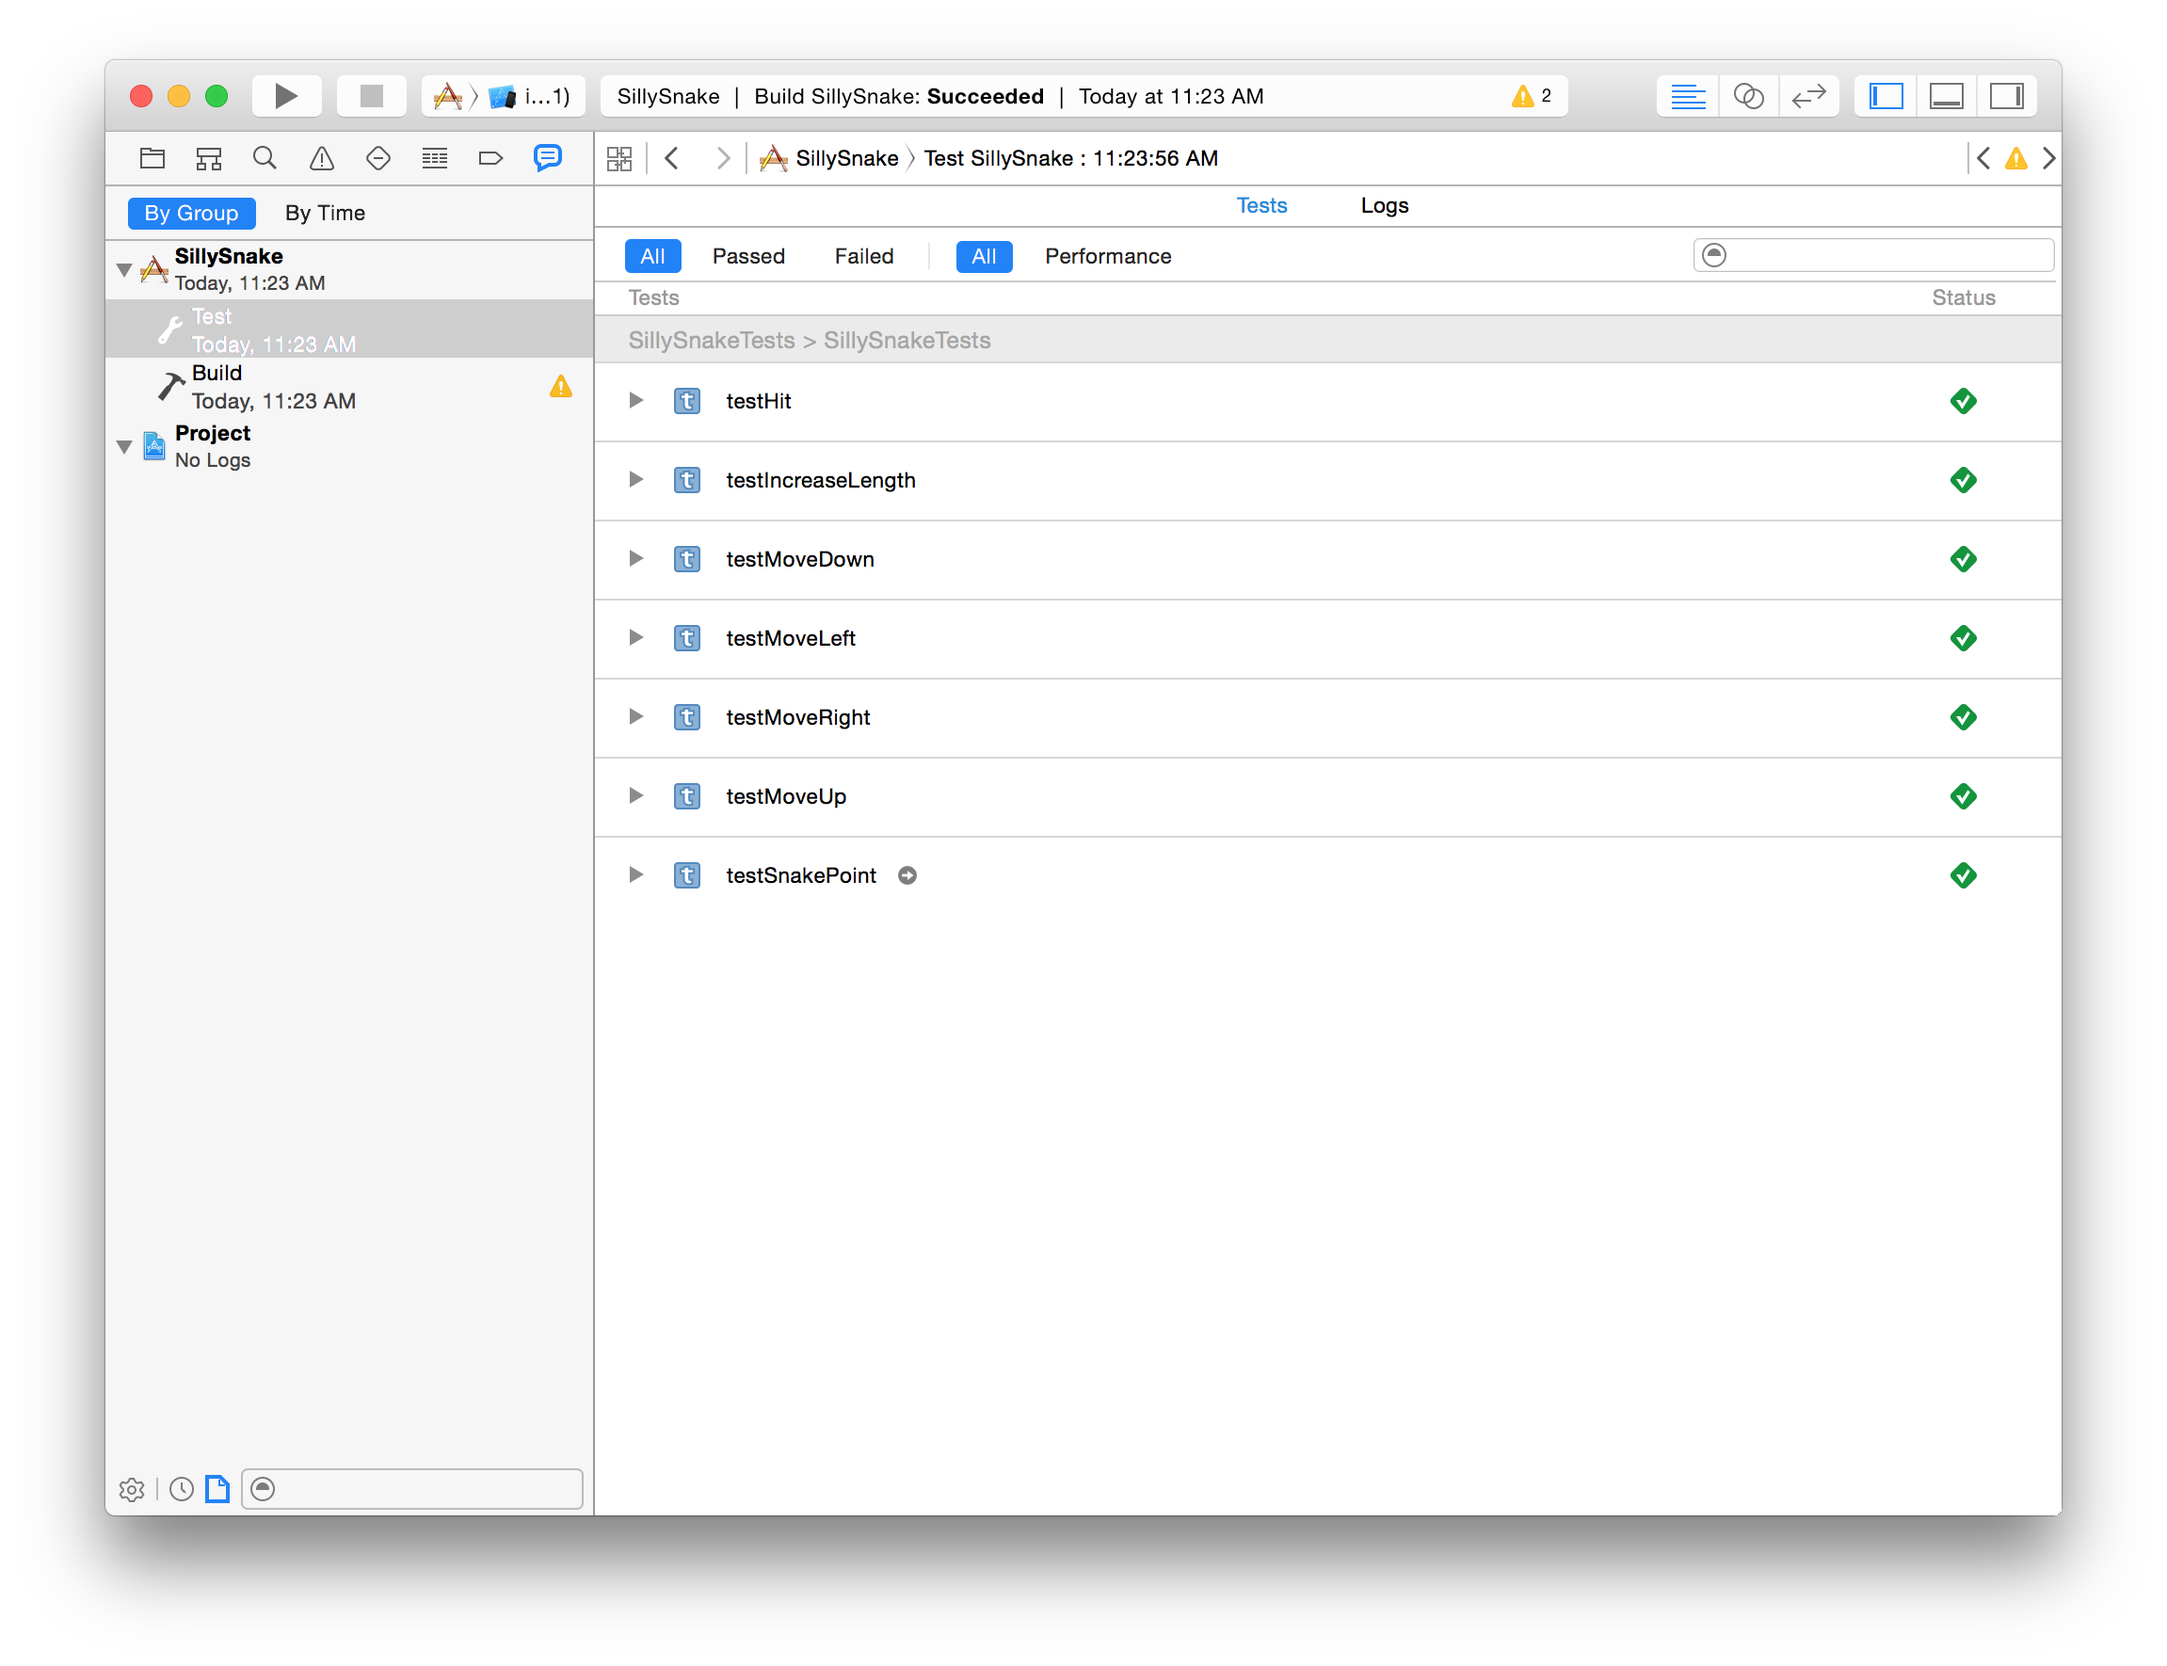
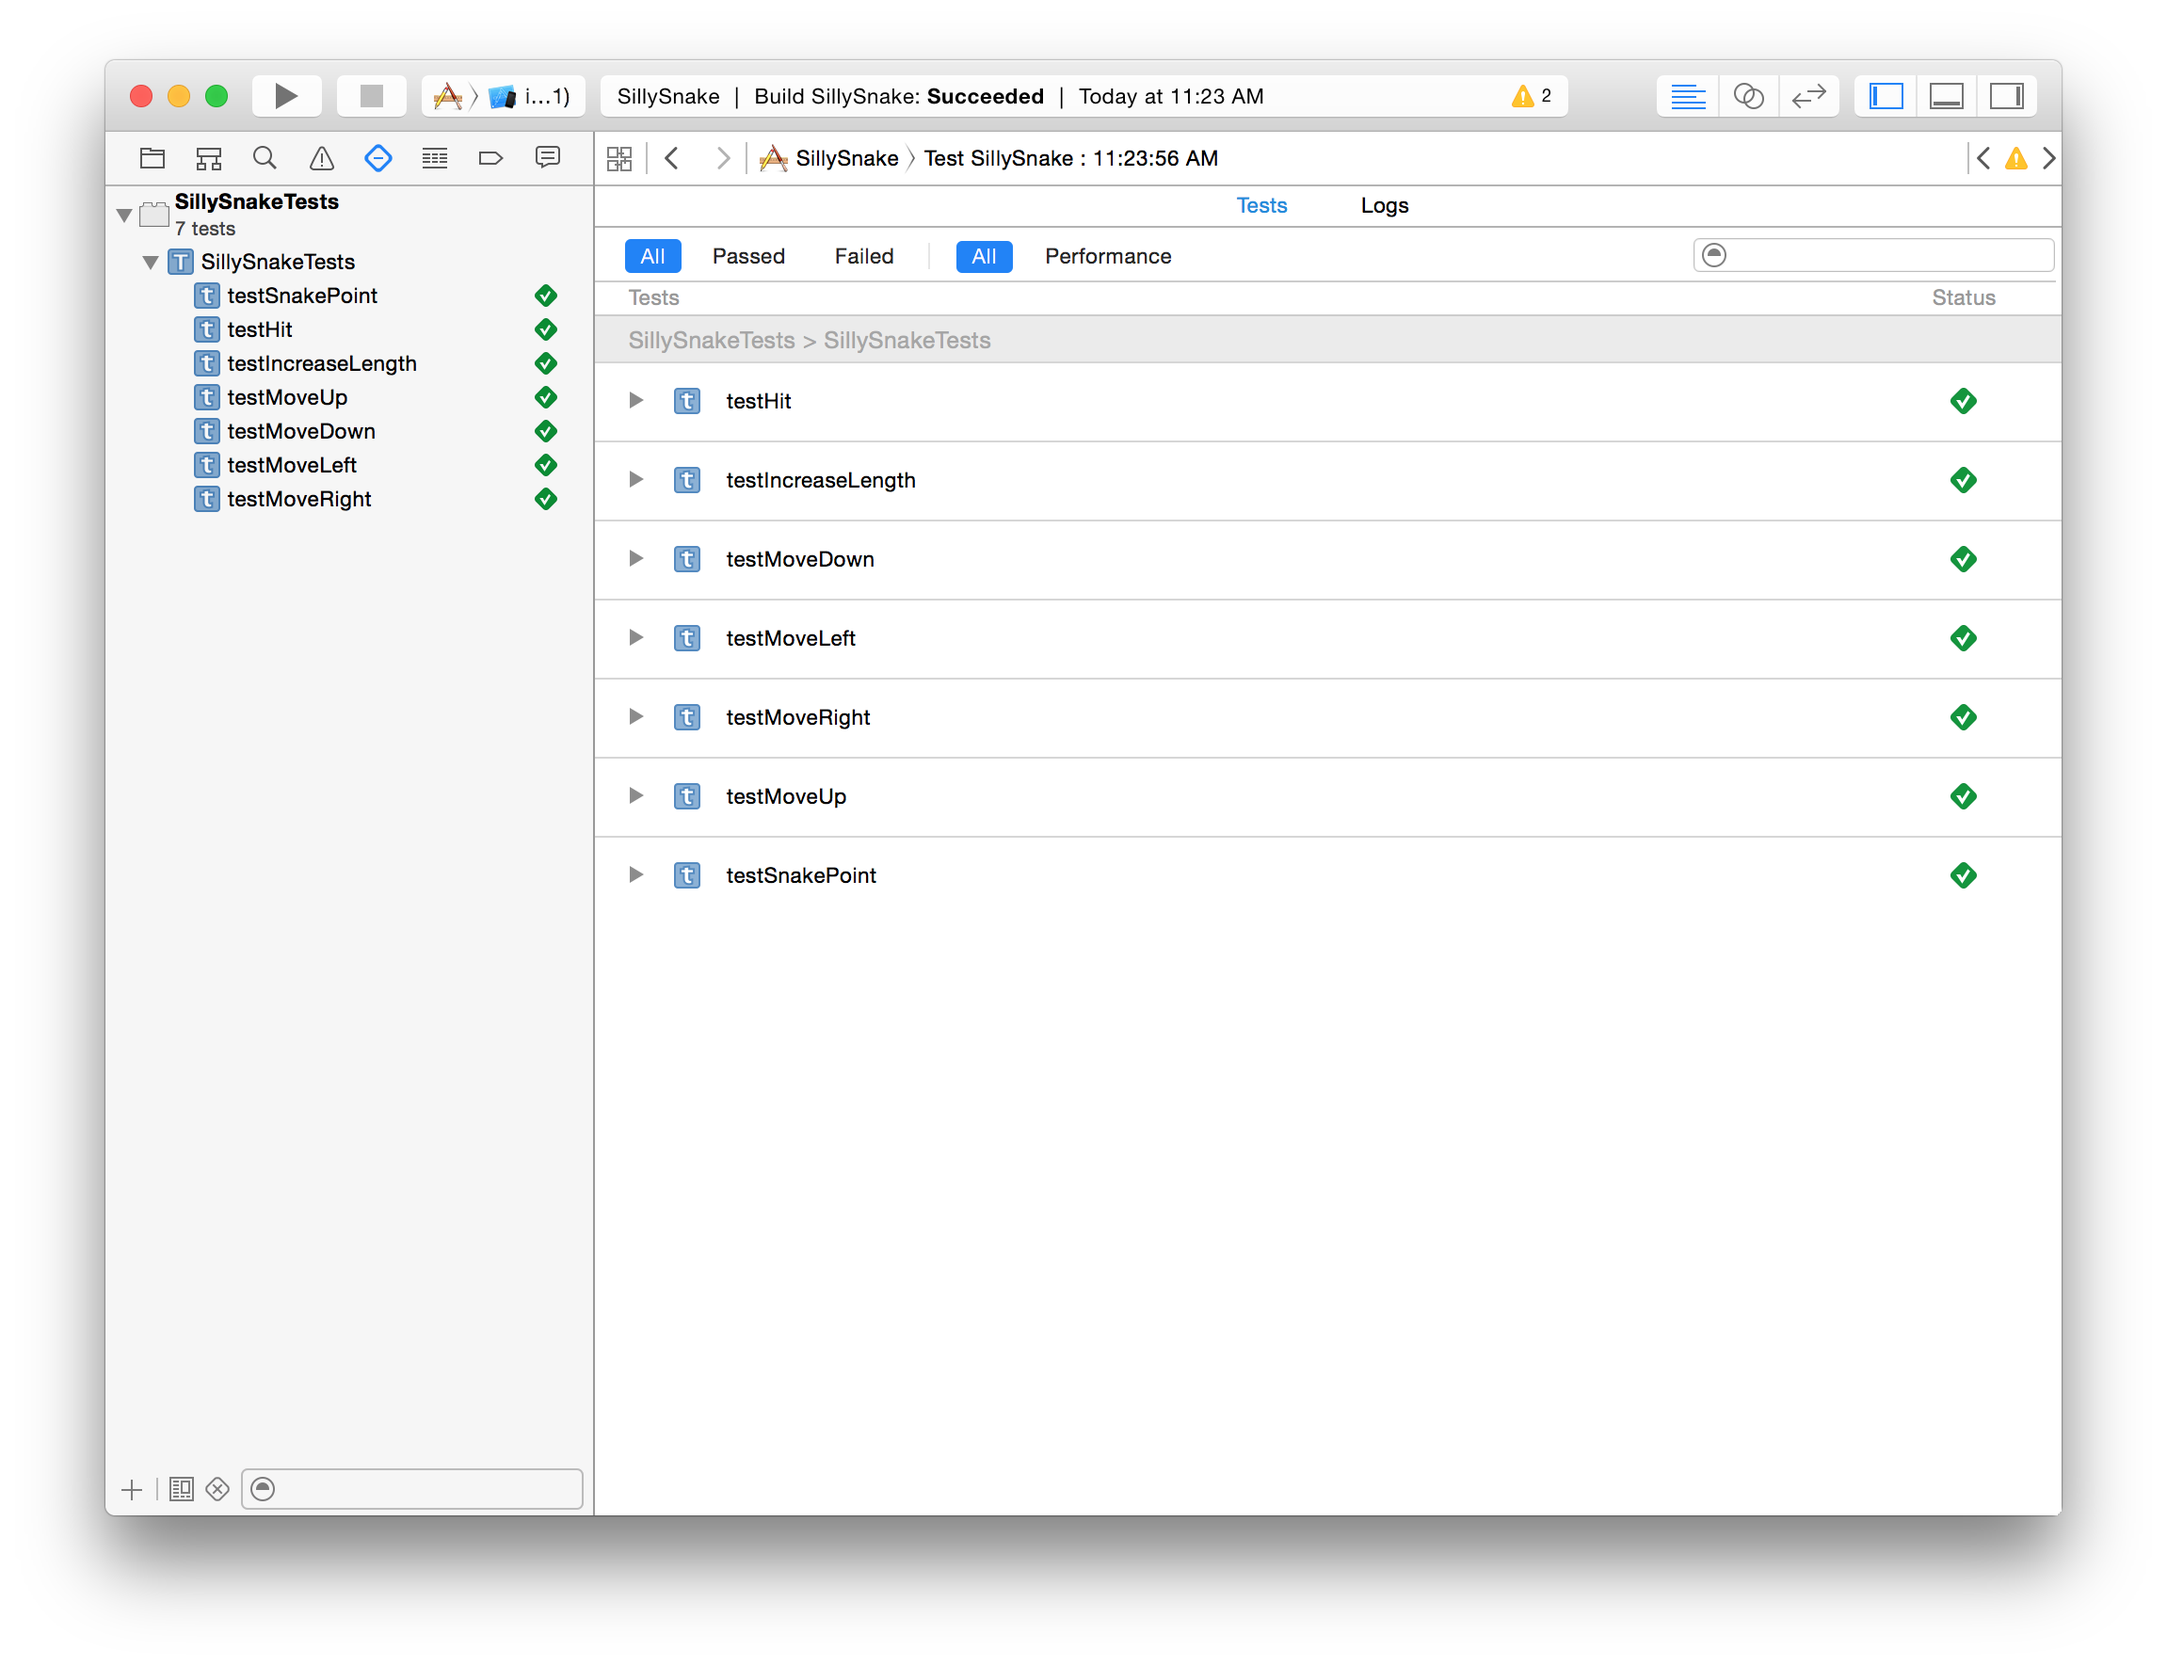
Updates unit_test/run_test.md.

Changed region(s): [[0.0308, 0.0932, 0.2776, 0.3107], [0.0617, 0.8701, 0.1234, 0.9011]]

diff --git a/unit_test/run_test.md b/unit_test/run_test.md
@@ -4,11 +4,25 @@
 寫了測試程式之後，我們可以在 Xcode 裡頭按下 Product->Test 執行單元測試。
 如果XCTAssertEqual 這行 assert 出現問題，Xcode 就會立刻出現警告。
 
+不同於之前，我們只能夠在 0.5 秒的時間內，用肉眼判斷我們的程式是不是有
+bug，我們現在可以對我們寫出的貪食蛇更有信心：在 test case 之前，要不就
+是能通過，要不就是不能通過。當 test case 愈多，也就代表，我們的程式的
+確經得起考驗。
+
 我們在 Xcode 裡頭有幾種不同的方式檢視單元測試的結果。在程式碼的編輯畫
 面中，每一個 test case 前方會出現一個菱形的圖示，如果這個圖示是空白的，
 代表還沒有執行測試，執行完畢之後，如果成功，就會是綠色，反之就會變成紅
-色。
+色。我們也可以直接用滑鼠按這個菱形圖示，執行 test case。
 
 ![Xcode 中執行單元測試](xcode1.png)
 
+在 Xcode 的左方側邊欄的第四項，叫做 Test Navigator，在這邊我們可以找到
+我們目前所在專案的所有 test case，在這邊可以看到每個 test case 是成功
+或失敗，也可以透過點擊，直接跳到特定 test case 的程式碼。
+
 ![Xcode 中執行單元測試](xcode2.png)
+
+在 Xcode 的左方側邊欄的最後一項，叫做 Report Navigator，在這邊可以看到
+最近一次完整執行所有 test case 的結果。
+
+![Xcode 中執行單元測試](xcode3.png)
